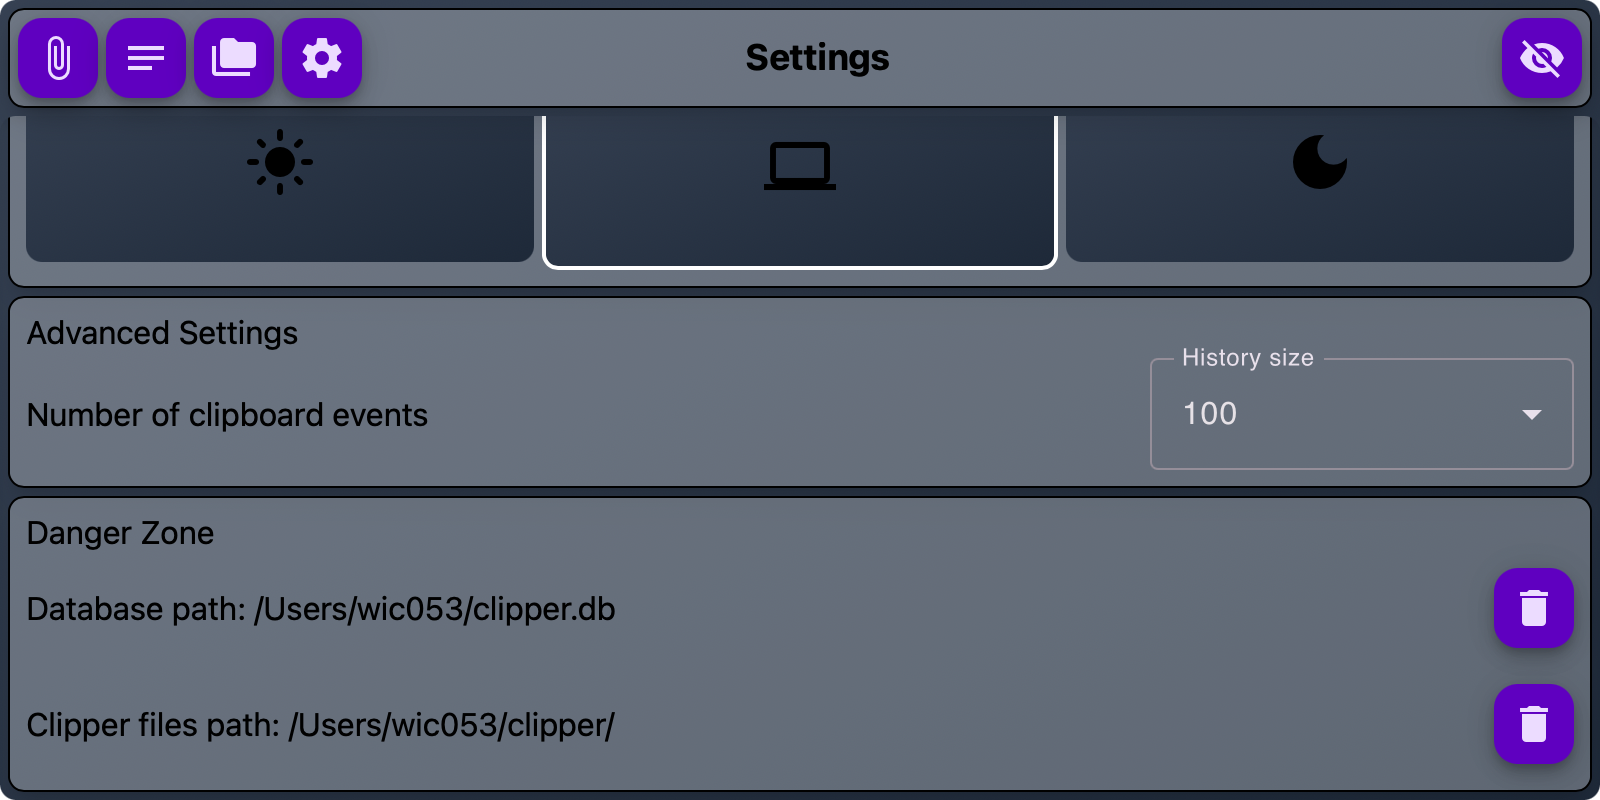
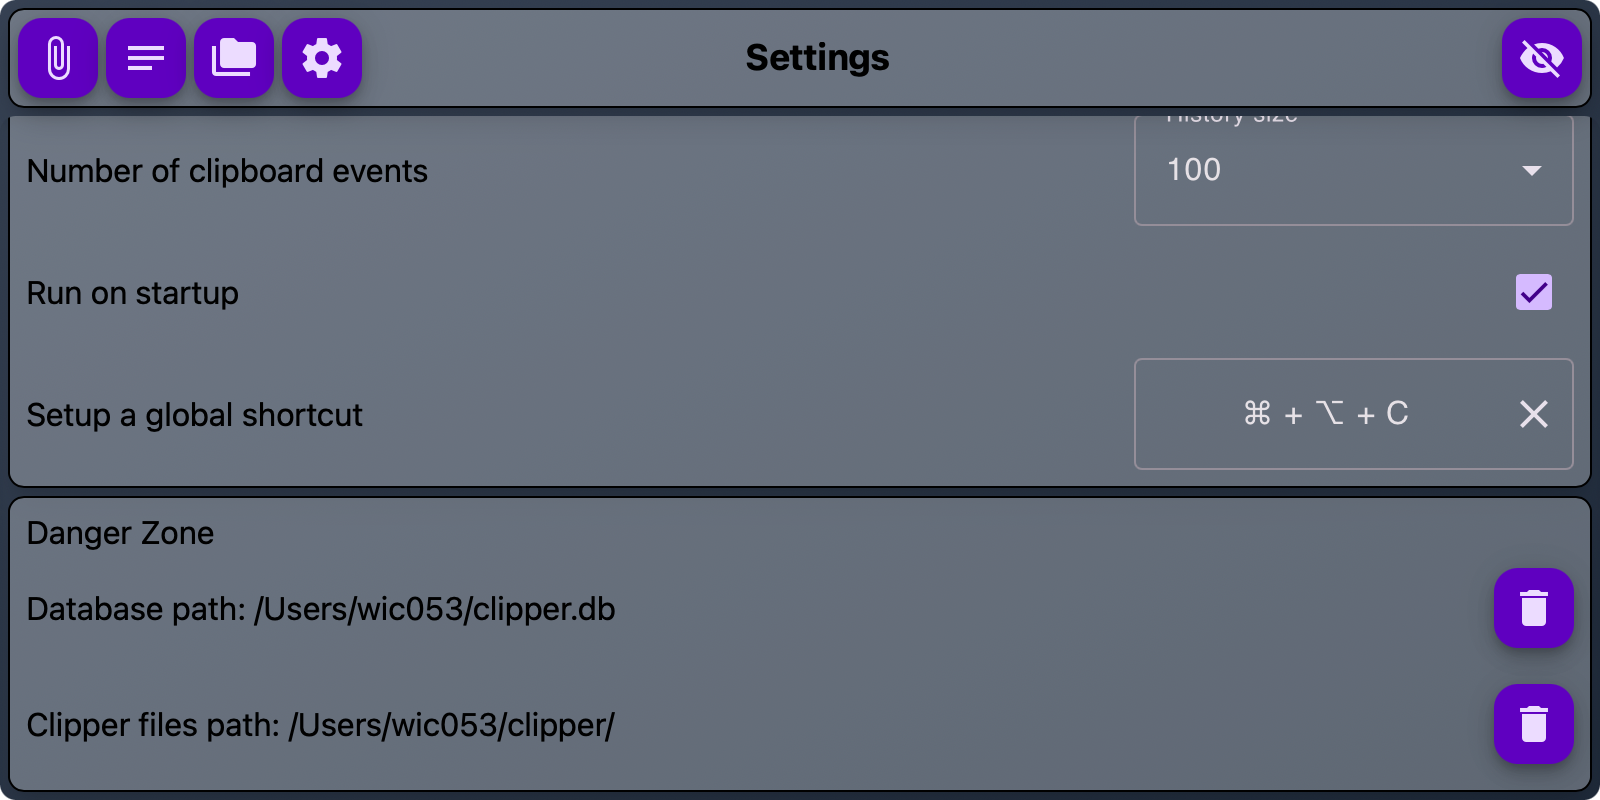
DOC: update README to clarify global shortcut configuration and add startup option

diff --git a/README.md b/README.md
@@ -16,13 +16,17 @@ The app itself is secure, however, your clipboard might see your passwords if yo
   <img src="./assets/home.png" alt="Home page" width="800">
 </p>
 
-* 👉 Global Shortcut 🍎 CMD + OPT + C and 🐧 CTRL + ALT + C
+* 👉 Configurable Global Shortcut 
+  - 🍎 CMD + OPT + C 
+  - 🐧 CTRL + ALT + C
 * 👉 Support images in the clipboard view and copying
 * 👉 Open images in system image viewer
 * 👉 Maintain quick text notes in notes manager
 * 👉 Multi monitor support
 * 👉 URL detection and view in QR form
 * 👉 File and Folder drop area
+* 👉 Start on system startup option
+* 👉 Right click menus
 
 ## Installation Instructions
 
